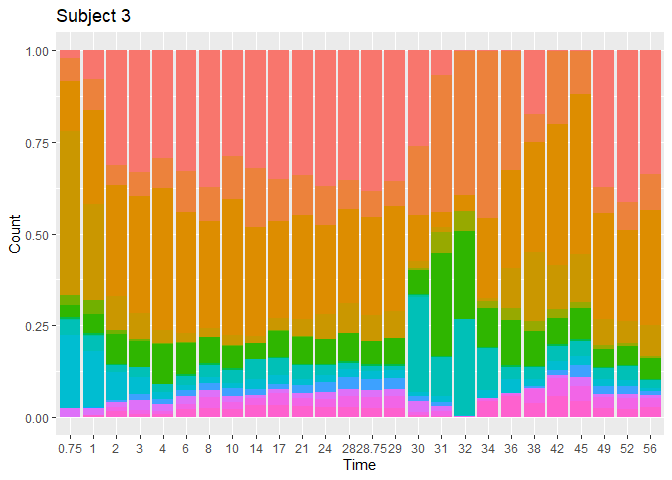
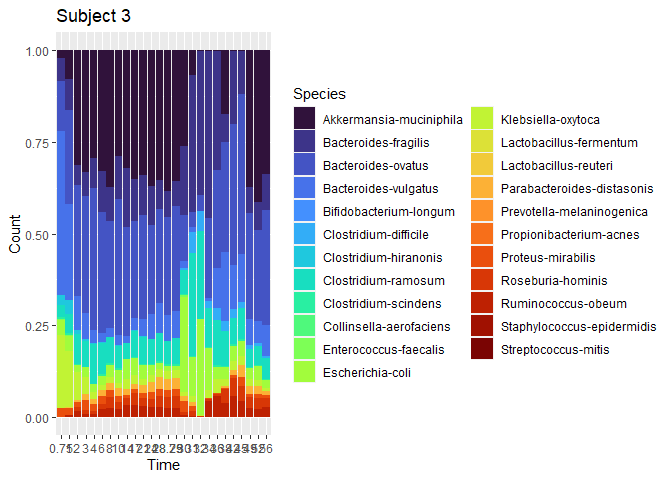
to bucci dataset add category "others", analysis by genus and joint visualization of all 5 mice

diff --git a/explore/01b-timeseries-CLVpaper.md b/explore/01b-timeseries-CLVpaper.md
@@ -1,6 +1,6 @@
 Time series (Compositional Lotka Volterra)
 ================
-Compiled at 2023-05-25 07:32:38 UTC
+Compiled at 2023-06-12 14:51:25 UTC
 
 ``` r
 here::i_am(paste0(params$name, ".Rmd"), uuid = "fbad9ade-134a-4a83-a801-9900003f3395")
@@ -9,10 +9,13 @@ here::i_am(paste0(params$name, ".Rmd"), uuid = "fbad9ade-134a-4a83-a801-9900003f
 The purpose of this document is to have a look at the time series data
 used in the Compositional Lotka Volterra paper.
 
+## Packages
+
 ``` r
 library("conflicted")
 library(tidyverse)
 library(data.table)
+library(viridis) # for color palettes
 ```
 
 ``` r
@@ -26,11 +29,11 @@ path_target <- projthis::proj_path_target(params$name)
 path_source <- projthis::proj_path_source(params$name)
 ```
 
-## Main
+# Main
 
-### Bucci
+## Bucci
 
-#### Read data
+### Read data
 
 ``` r
 #### read the file
@@ -83,25 +86,31 @@ Fecal pellets were collected at days 0.75, 1, 2, 3, 4, 6, 8, 10, 14, 17,
 21, 24, and 28 of the initial colonization and at days 0.75, 1, 2, 3, 4,
 6, 8, 10, 14, 17, 21, 24, and 28 post-infection with C. difficile.
 
-#### Plot data
+### Plot data
+
+#### by Species
 
 ``` r
+# plot time series in correct time intervals
 ggplot(dt_bucci_long[subjectID == 1], aes(measurementid, Count)) +
     geom_bar(aes(fill = Species), stat = "identity") +
     theme(legend.position = "none") +
     labs(x = "Time",
-         title = paste("Subject", 1))
+         title = paste("Subject", 1)) +
+    scale_fill_viridis(discrete = TRUE, option = "turbo")
 ```
 
 ![](01b-timeseries-CLVpaper_files/figure-gfm/unnamed-chunk-2-1.png)<!-- -->
 
 ``` r
+# plot time series with no distance between time intervals
 for(i in 1:5){
   pl <- ggplot(dt_bucci_long[subjectID == i], aes(as.factor(measurementid), Count)) +
     geom_bar(aes(fill = Species), stat = "identity", position = "fill") +
-    theme(legend.position = "none") +
+    theme(legend.position = "right") +
     labs(x = "Time",
-         title = paste("Subject", i))
+         title = paste("Subject", i)) +
+    scale_fill_viridis(discrete = TRUE, option = "turbo")
   
   print(pl)
 }
@@ -109,104 +118,127 @@ for(i in 1:5){
 
 ![](01b-timeseries-CLVpaper_files/figure-gfm/unnamed-chunk-2-2.png)<!-- -->![](01b-timeseries-CLVpaper_files/figure-gfm/unnamed-chunk-2-3.png)<!-- -->![](01b-timeseries-CLVpaper_files/figure-gfm/unnamed-chunk-2-4.png)<!-- -->![](01b-timeseries-CLVpaper_files/figure-gfm/unnamed-chunk-2-5.png)<!-- -->![](01b-timeseries-CLVpaper_files/figure-gfm/unnamed-chunk-2-6.png)<!-- -->
 
-### Stein
-
-#### Read data
-
 ``` r
-#### read the file
-
-# # preparation of the data
-# dt_stein_raw <-
-#   fread("data/clv/stein/raw_data.csv") %>%
-#   t() %>%
-#   .[, lapply(.SD, as.numeric)]
-# 
-# write.table(dt_stein_raw,
-#           "data/clv/stein/raw_data_transposed.csv",
-#           row.names = FALSE)
-
-dt_stein_raw <- 
-  fread("data/clv/stein/raw_data_transposed.csv")
-
-dt_stein_long <-
-  melt(dt_stein_raw,
-       id.vars = c("Population", "Replicate", "ID", "time (in d)", "Clindamycin signal"), 
-       variable.name = "Genus")
+# plot mean count over all mice
+ggplot(dt_bucci_long, 
+               aes(as.factor(measurementid), Count)) +
+    geom_bar(aes(fill = Species), stat = "identity", position = "fill") +
+    theme(legend.position = "right") +
+    labs(x = "Time",
+         title = paste("All Subjects")) +
+    scale_fill_viridis(discrete = TRUE, option = "turbo")
 ```
 
-#### List of Genus
+![](01b-timeseries-CLVpaper_files/figure-gfm/unnamed-chunk-2-7.png)<!-- -->
 
 ``` r
-dt_stein_long$Genus %>% unique()
+# * add category "other" for Species with small count
+th_species <- 0.05
+
+dt_species_other <-
+  dt_bucci_long[, rel_count_species := Count/sum(Count),
+              by = c("subjectID", "measurementid", "sampleID")] %>% 
+  .[, .(max_count = max(rel_count_species)),
+             by = c("Species")] %>% 
+      .[max_count < th_species, .(Species)]
+
+dt_bucci_long[, Species_grouped := Species] %>% 
+  .[Species %in% dt_species_other$Species, Species_grouped := "other"]
+
+
+# plot count over all mice for grouped species
+ggplot(dt_bucci_long, 
+               aes(as.factor(measurementid), Count)) +
+    geom_bar(aes(fill = Species_grouped), stat = "identity", position = "fill") +
+    theme(legend.position = "right") +
+    labs(x = "Time",
+         title = paste("All Subjects")) +
+    scale_fill_viridis(discrete = TRUE, option = "turbo")
 ```
 
-    ##  [1] undefined_genus_of_Enterobacteriaceae     
-    ##  [2] Blautia                                   
-    ##  [3] Barnesiella                               
-    ##  [4] undefined_genus_of_unclassified_Mollicutes
-    ##  [5] undefined_genus_of_Lachnospiraceae        
-    ##  [6] Akkermansia                               
-    ##  [7] Clostridium_difficile                     
-    ##  [8] unclassified_Lachnospiraceae              
-    ##  [9] Coprobacillus                             
-    ## [10] Enterococcus                              
-    ## [11] Other                                     
-    ## 11 Levels: undefined_genus_of_Enterobacteriaceae Blautia ... Other
+![](01b-timeseries-CLVpaper_files/figure-gfm/unnamed-chunk-3-1.png)<!-- -->
 
-#### Plot data
+#### by Genus
 
 ``` r
-for (i in 1:9) {
-  plot_tmp <-
-    ggplot(dt_stein_long[ID == i]) +
-      # geom_line(aes(`time (in d)`, value, col = Genus)) +
-      geom_bar(aes(`time (in d)`, value, fill = Genus), 
-               stat = "identity", position = "fill") +
-      theme(legend.position = "bottom") +
-      # ylim(0, 6.2) +
-      xlim(0,25) +
-    labs(title = paste("ID =", i))
+# add Genus column
+dt_bucci_long[, Genus := tstrsplit(Species, "-")[1]]
+
+
+# plot time series by genus
+
+ggplot(dt_bucci_long[subjectID == 1], aes(measurementid, Count)) +
+    geom_bar(aes(fill = Genus), stat = "identity") +
+    theme(legend.position = "right") +
+    labs(x = "Time",
+         title = paste("Subject", 1)) +
+    scale_fill_viridis(discrete = TRUE, option = "turbo")
+```
+
+![](01b-timeseries-CLVpaper_files/figure-gfm/unnamed-chunk-4-1.png)<!-- -->
+
+``` r
+for(i in 1:5){
+  pl <- ggplot(dt_bucci_long[subjectID == i], 
+               aes(as.factor(measurementid), Count)) +
+    geom_bar(aes(fill = Genus), stat = "identity", position = "fill") +
+    theme(legend.position = "right") +
+    labs(x = "Time",
+         title = paste("Subject", i)) +
+    scale_fill_viridis(discrete = TRUE, option = "turbo")
   
-  print(plot_tmp)
+  print(pl)
 }
 ```
 
-    ## Warning: Removed 11 rows containing missing values (`geom_bar()`).
+![](01b-timeseries-CLVpaper_files/figure-gfm/unnamed-chunk-4-2.png)<!-- -->![](01b-timeseries-CLVpaper_files/figure-gfm/unnamed-chunk-4-3.png)<!-- -->![](01b-timeseries-CLVpaper_files/figure-gfm/unnamed-chunk-4-4.png)<!-- -->![](01b-timeseries-CLVpaper_files/figure-gfm/unnamed-chunk-4-5.png)<!-- -->![](01b-timeseries-CLVpaper_files/figure-gfm/unnamed-chunk-4-6.png)<!-- -->
+
+``` r
+ggplot(dt_bucci_long, 
+               aes(as.factor(measurementid), Count)) +
+    geom_bar(aes(fill = Genus), stat = "identity", position = "fill") +
+    theme(legend.position = "right") +
+    labs(x = "Time",
+         title = paste("All Subjects")) +
+    scale_fill_viridis(discrete = TRUE, option = "turbo")
+```
+
+![](01b-timeseries-CLVpaper_files/figure-gfm/unnamed-chunk-4-7.png)<!-- -->
+
+``` r
+# add category "other" for Genus with small count
+th_genus <- 0.05
+
+dt_genus_other <-
+  dt_bucci_long[, rel_count_genus := Count/sum(Count),
+              by = c("subjectID", "measurementid", "sampleID")] %>% 
+  .[, .(max_count = max(rel_count_genus)),
+             by = c("Genus")] %>% 
+      .[max_count < th_genus, .(Genus)]
+
+dt_bucci_long[, Genus_grouped := Genus] %>% 
+  .[Genus %in% dt_genus_other$Genus, Genus_grouped := "other"]
+
+
+# plot count over all mice for grouped genus
+ggplot(dt_bucci_long, 
+               aes(as.factor(measurementid), Count)) +
+    geom_bar(aes(fill = Genus_grouped), stat = "identity", position = "fill") +
+    theme(legend.position = "right") +
+    labs(x = "Time",
+         title = paste("All Subjects")) +
+    scale_fill_viridis(discrete = TRUE, option = "turbo")
+```
 
 ![](01b-timeseries-CLVpaper_files/figure-gfm/unnamed-chunk-5-1.png)<!-- -->
 
-    ## Warning: Removed 11 rows containing missing values (`geom_bar()`).
-
-![](01b-timeseries-CLVpaper_files/figure-gfm/unnamed-chunk-5-2.png)<!-- -->
-
-    ## Warning: Removed 11 rows containing missing values (`geom_bar()`).
-
-![](01b-timeseries-CLVpaper_files/figure-gfm/unnamed-chunk-5-3.png)<!-- -->
-
-    ## Warning: Removed 11 rows containing missing values (`geom_bar()`).
-
-![](01b-timeseries-CLVpaper_files/figure-gfm/unnamed-chunk-5-4.png)<!-- -->
-
-    ## Warning: Removed 11 rows containing missing values (`geom_bar()`).
-
-![](01b-timeseries-CLVpaper_files/figure-gfm/unnamed-chunk-5-5.png)<!-- -->
-
-    ## Warning: Removed 11 rows containing missing values (`geom_bar()`).
-
-![](01b-timeseries-CLVpaper_files/figure-gfm/unnamed-chunk-5-6.png)<!-- -->
-
-    ## Warning: Removed 11 rows containing missing values (`geom_bar()`).
-
-![](01b-timeseries-CLVpaper_files/figure-gfm/unnamed-chunk-5-7.png)<!-- -->
-
-    ## Warning: Removed 11 rows containing missing values (`geom_bar()`).
-
-![](01b-timeseries-CLVpaper_files/figure-gfm/unnamed-chunk-5-8.png)<!-- -->
-
-    ## Warning: Removed 11 rows containing missing values (`geom_bar()`).
-
-![](01b-timeseries-CLVpaper_files/figure-gfm/unnamed-chunk-5-9.png)<!-- -->
+<!-- ```{r} -->
+<!-- # add mean count and sum count of all mice -->
+<!-- dt_bucci_long[, Count_mean := mean(Count), -->
+<!--               by = c("measurementid", "Species")] %>%  -->
+<!--   .[, Count_sum := sum(Count), -->
+<!--               by = c("measurementid", "Species")] -->
+<!-- ``` -->
 
 ## Files written
 
